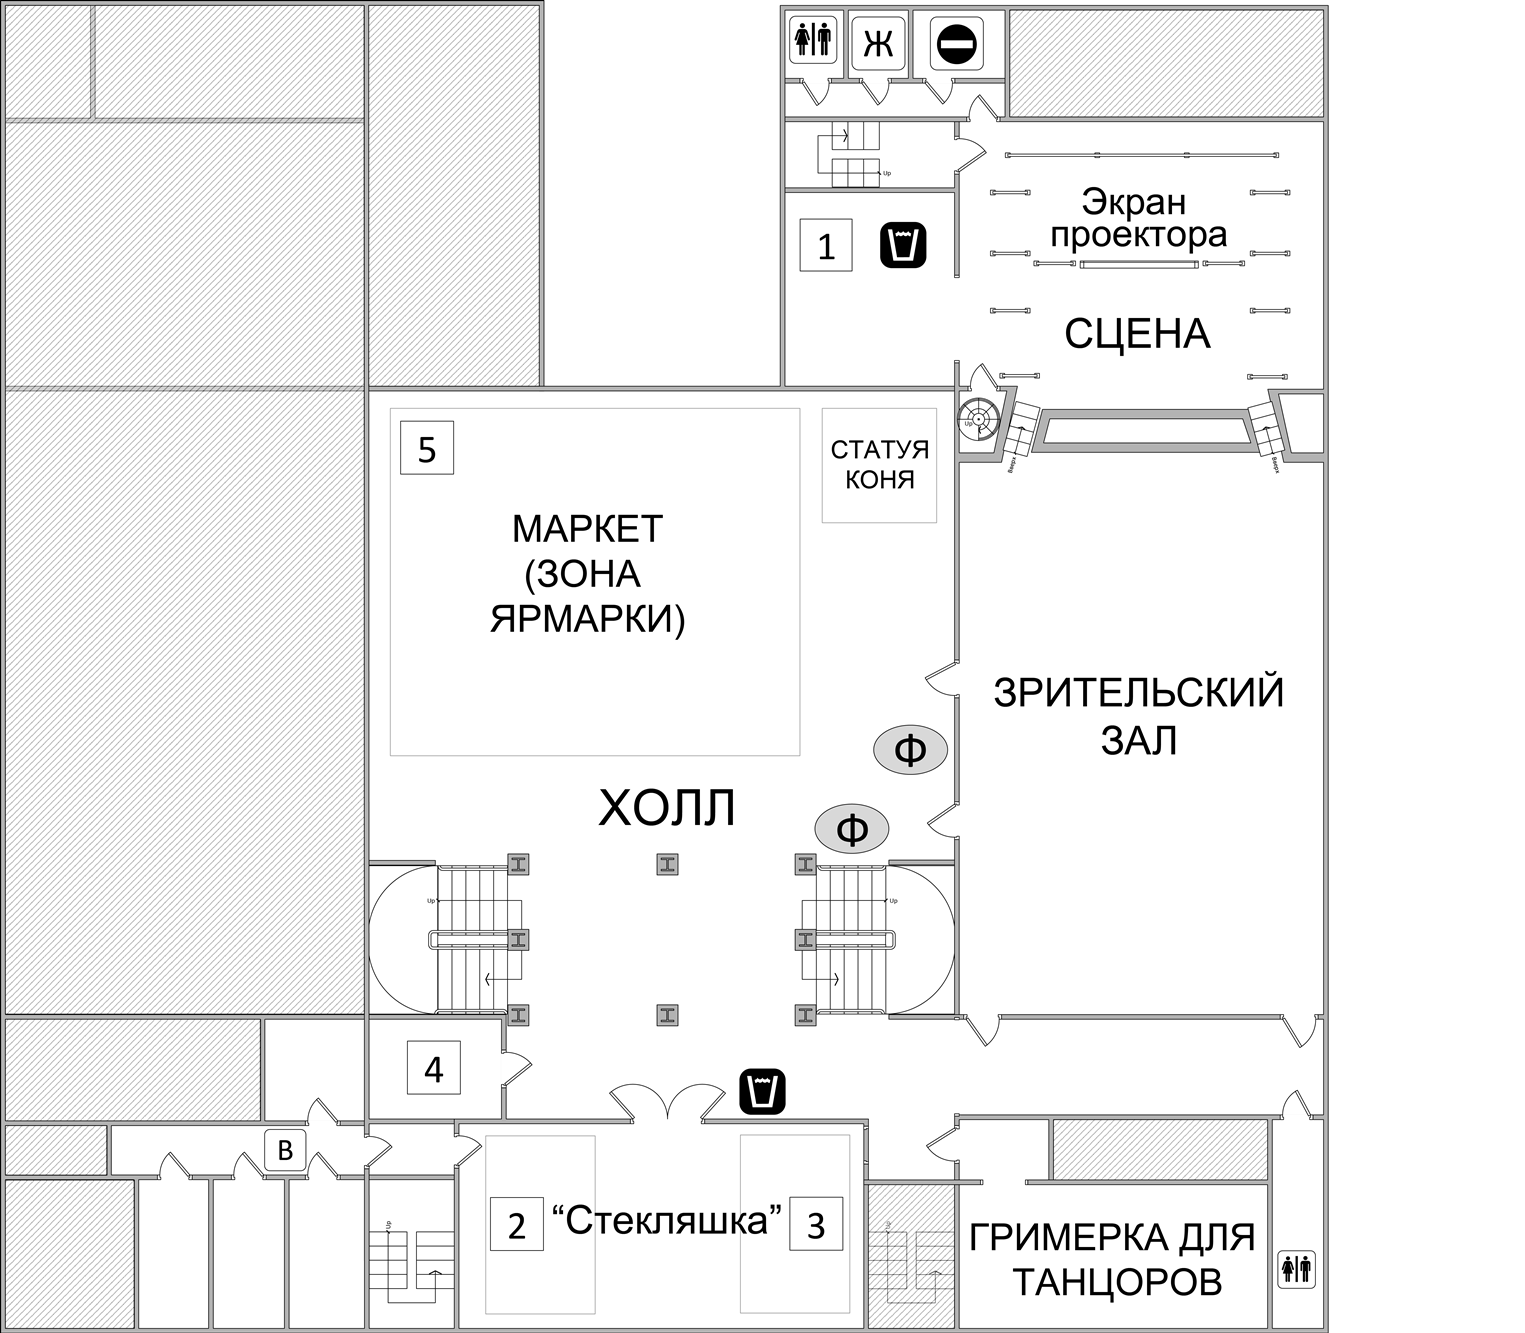
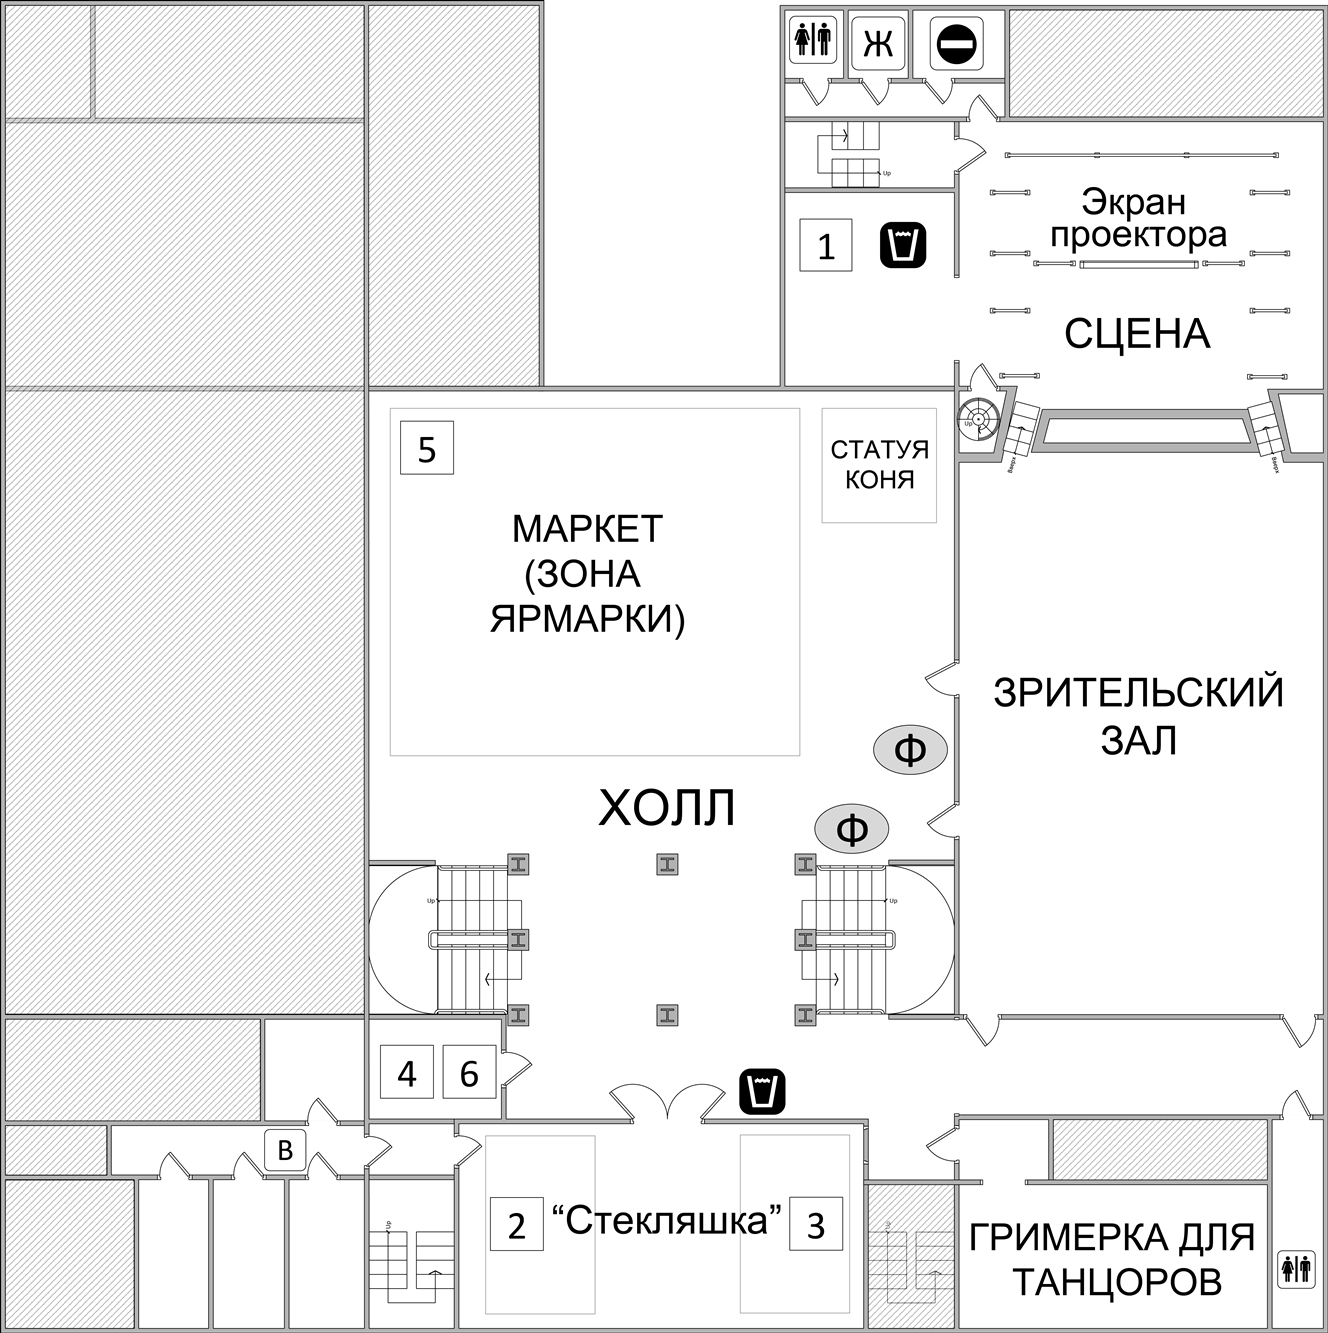
[cf] jury updated [cf] changed scheme [cf] updated about screen [cf] show everything on 11'th november

Changed region(s): [[0.0, 0.0, 1.0, 1.0], [0.3087, 0.3691, 0.5248, 0.4921], [0.4322, 0.7382, 0.4631, 0.7689]]

diff --git a/app/src/main/java/ru/badr/cosplay2/util/Utils.java b/app/src/main/java/ru/badr/cosplay2/util/Utils.java
@@ -35,7 +35,7 @@ public class Utils {
         calendar.set(Calendar.SECOND, 0);
         calendar.set(Calendar.MINUTE, 0);
         calendar.set(Calendar.HOUR_OF_DAY, 0);
-        calendar.set(Calendar.DATE, 12);
+        calendar.set(Calendar.DATE, 11);
         calendar.set(Calendar.MONTH, Calendar.NOVEMBER);
         calendar.set(Calendar.YEAR, 2016);
         return calendar.getTime().after(APP_START_TIME);
